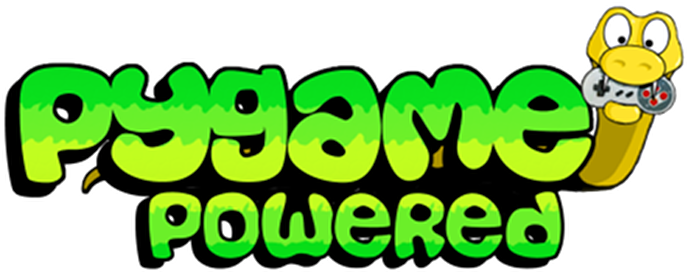
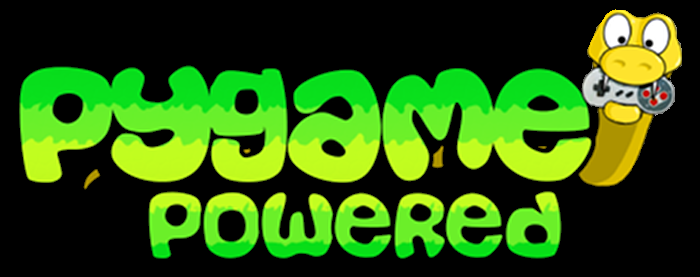
updates

diff --git a/platformer.py b/platformer.py
@@ -93,7 +93,7 @@ class game(pygame.Surface):
         return self.plats
 
 #Images for intro animation
-py_logo = pygame.image.load(os.path.join(g_dir, "pygame_powered_big2.png")).convert()
+py_logo = pygame.image.load(os.path.join(g_dir, "pygame_powered_big.png")).convert()
 my_logo = pygame.image.load(os.path.join(g_dir, "my_logo.png")).convert()
 
 #Intro animation
@@ -166,10 +166,9 @@ jump = False
 key_right = False
 key_left = False
 my_level = 0
-gravity = 1
+gravity = 2
 y_speed = 0
 x_speed = 0
-jump1 = False
 spawns = {0:(20+50, 575-50),
  1:(50, 10)}
 
@@ -191,7 +190,6 @@ while play:
                 break
             if event.key == pygame.K_w:
                 jump = False
-                jump1 = False
             if event.key == pygame.K_a:
                 key_left = False
             if event.key == pygame.K_d:
@@ -201,7 +199,7 @@ while play:
             if event.key == pygame.K_ESCAPE:
                 exit = True
                 break
-            if event.key == pygame.K_w and jump1 == False:
+            if event.key == pygame.K_w:
                 jump = True
             if event.key == pygame.K_a:
                 key_left = True
@@ -224,19 +222,21 @@ while play:
     if key_left == True:
         x_speed -= 5
     if jump == True:
-        y_speed = 10
+        y_speed -= 10
 
 
     g_surf.cube.move(x_speed, y_speed)
     if len(g_surf.cube.if_collide(g_surf.plats, False)) > 0:
         if key_right == True:
-            x_speed += -5
-        if key_left == True:
             x_speed -= 5
-        g_surf.cube.move(x_speed*-1, y_speed*-1)
+            g_surf.cube.move(x_speed, 0)
+        if key_left == True:
+            x_speed += 5
+            g_surf.cube.move(x_speed, 0)
 
-    if y_speed > 0:
-        y_speed -= gravity
+
+    if y_speed < 0:
+        y_speed += gravity
     #Drawing and rendering
     gameDisp.fill(BLACK)
     g_surf.render(gameDisp)
